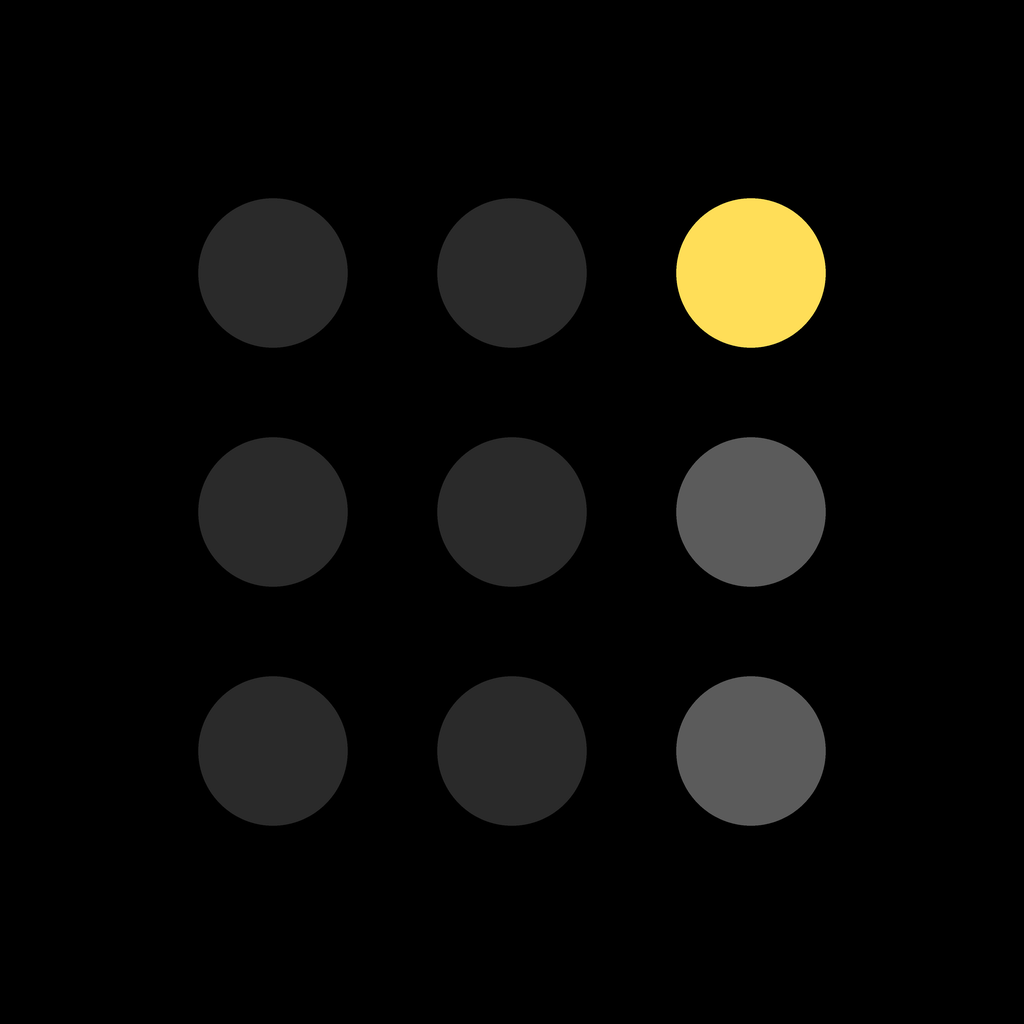
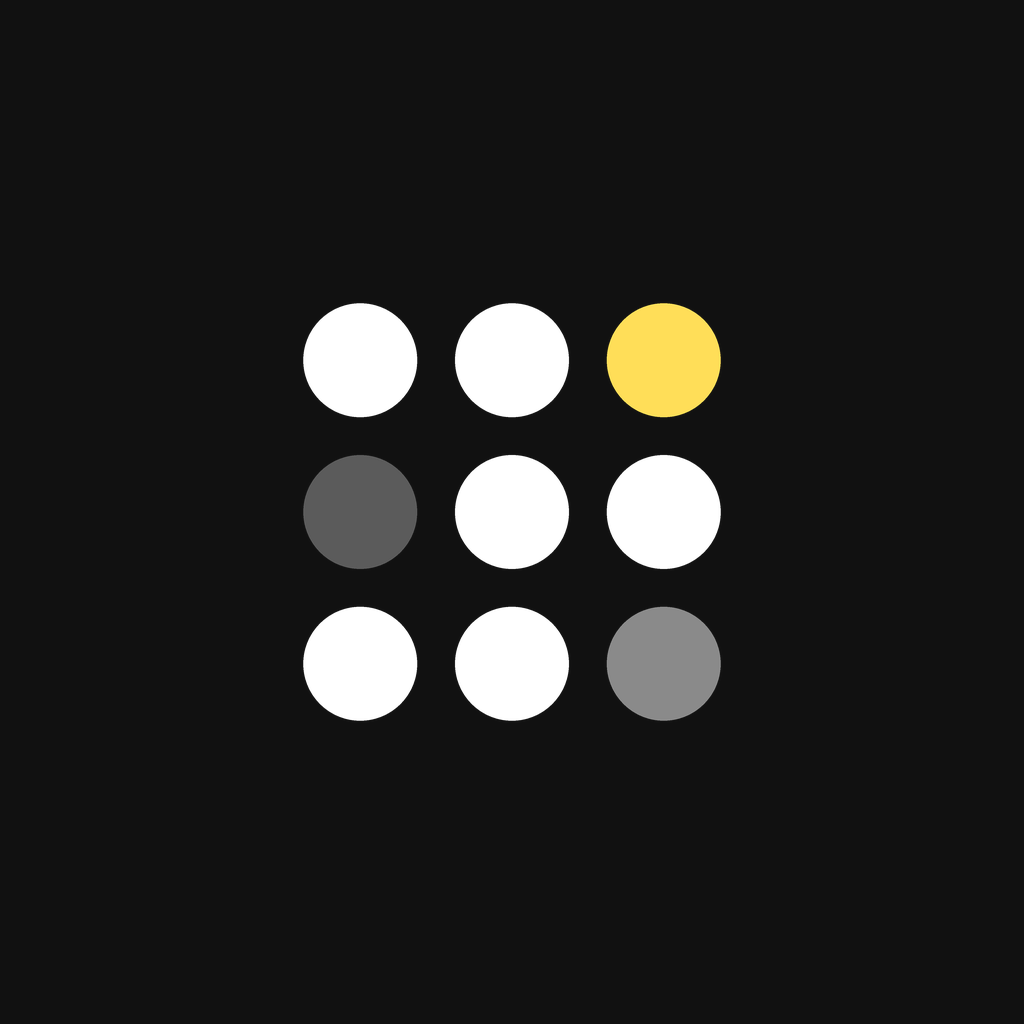
Copy the legacy printing_app adaptive mark
Captain rejected charcoal-on-black. Rasterise the 108dp vector (radius 6,
centres 38/54/70) onto the #111111 cockpit plate. Seven dots stay white;
top-right is #FFDE58, bottom-right #8A8A8A, and middle-left is #5B5B5B
instead of white.

Changed region(s): [[0.1875, 0.1875, 0.8125, 0.8125]]

diff --git a/__tests__/appIcon.test.ts b/__tests__/appIcon.test.ts
@@ -36,7 +36,7 @@ describe("GRIDGO app icon", () => {
   it("points icon, adaptive layers, favicon and splash at the mark files", () => {
     expect(appJson.expo.icon).toBe("./assets/images/icon.png");
     expect(appJson.expo.android?.adaptiveIcon).toEqual({
-      backgroundColor: "#000000",
+      backgroundColor: "#111111",
       foregroundImage: "./assets/images/android-icon-foreground.png",
       backgroundImage: "./assets/images/android-icon-background.png",
       monochromeImage: "./assets/images/android-icon-monochrome.png",
@@ -45,15 +45,15 @@ describe("GRIDGO app icon", () => {
 
     const splash = pluginOptions("expo-splash-screen");
     expect(splash.image).toBe("./assets/images/splash-icon.png");
-    expect(splash.backgroundColor).toBe("#000000");
+    expect(splash.backgroundColor).toBe("#111111");
     expect(splash.dark).toEqual({
       image: "./assets/images/splash-icon-dark.png",
-      backgroundColor: "#000000",
+      backgroundColor: "#111111",
     });
   });
 
-  it("does not keep a light plate (Expo blue or the rejected white)", () => {
-    expect(appJson.expo.android?.adaptiveIcon?.backgroundColor).toBe("#000000");
+  it("uses the legacy cockpit plate, not Expo blue, white, or #000000", () => {
+    expect(appJson.expo.android?.adaptiveIcon?.backgroundColor).toBe("#111111");
     const encoded = JSON.stringify(appJson);
     expect(encoded).not.toContain("#E6F4FE");
     expect(encoded).not.toContain("#e6f4fe");

diff --git a/scripts/generate-app-icon.py b/scripts/generate-app-icon.py
@@ -1,13 +1,17 @@
 #!/usr/bin/env python3
-"""Rasterise the GRIDGO 3×3 mark onto a black launcher plate.
+"""Rasterise the legacy printing_app adaptive mark.
 
-Captain correction 2026-08-19: no white plate. Adaptive background is
-#000000. All nine dots are painted — six charcoal, two grey on the right
-column, one yellow — so nothing punches a hole through to a light plate.
+Source geometry (copy, do not invent):
+  printing_app/.../drawable/ic_launcher_foreground.xml
+  108×108 viewport, radius 6. Each path starts at the left of the circle
+  (M32,38 / M48,38 / M64,38 and y 38/54/70), so centres are 38/54/70.
 
-Source geometry: gridgo-landing/public/favicon.svg (48-unit viewBox,
-centres 8/24/40, r=5). Colours follow the captain photo, not the
-favicon's pure-black structural dots (invisible on this plate).
+Plate: #111111 (ic_launcher_background). Captain change from legacy:
+the middle-left dot (M32,54) is #5B5B5B, not white.
+
+    #FFFFFF  #FFFFFF  #FFDE58
+    #5B5B5B  #FFFFFF  #FFFFFF
+    #FFFFFF  #FFFFFF  #8A8A8A
 
 Run from the repo root:
 
@@ -20,22 +24,18 @@ from pathlib import Path
 
 from PIL import Image, ImageDraw
 
-# Captain photo / black-plate spec.
-DOT_CHARCOAL = (0x2A, 0x2A, 0x2A, 255)
+DOT_WHITE = (0xFF, 0xFF, 0xFF, 255)
 DOT_YELLOW = (0xFF, 0xDE, 0x58, 255)
-DOT_GRAY = (0x5B, 0x5B, 0x5B, 255)
-PLATE = (0x00, 0x00, 0x00, 255)
-MONO = (0xF0, 0xF0, 0xF0, 255)
+DOT_MID_LEFT = (0x5B, 0x5B, 0x5B, 255)
+DOT_BOTTOM_RIGHT = (0x8A, 0x8A, 0x8A, 255)
+PLATE = (0x11, 0x11, 0x11, 255)
+MONO = (0xFF, 0xFF, 0xFF, 255)
 
-# favicon.svg viewBox="0 0 48 48": centres at 8/24/40, r=5.
-CENTRES = (8, 24, 40)
-RADIUS = 5
-VIEW = 48
+# Geometric centres of the legacy vector (path start + radius on x).
+VIEW = 108
+RADIUS = 6
+CENTRES = (38, 54, 70)
 
-# Android adaptive icons are 108dp; the unmasked safe zone is the inner 66dp.
-SAFE_ZONE = 66 / 108
-
-# Super-sample then Lanczos-down so the dots stay round, not stair-stepped.
 SCALE = 4
 
 ROOT = Path(__file__).resolve().parent.parent
@@ -47,37 +47,25 @@ def dot_fill(col: int, row: int, *, mono: bool) -> tuple[int, int, int, int]:
         return MONO
     if col == 2 and row == 0:
         return DOT_YELLOW
-    if col == 2:
-        # Middle-right and bottom-right are both grey. Never skip
-        # middle-right — that hole read as a white dot on the old plate.
-        return DOT_GRAY
-    return DOT_CHARCOAL
+    if col == 0 and row == 1:
+        return DOT_MID_LEFT
+    if col == 2 and row == 2:
+        return DOT_BOTTOM_RIGHT
+    return DOT_WHITE
 
 
-def draw_mark(
-    size: int,
-    *,
-    mono: bool = False,
-    inner_ratio: float = 1.0,
-) -> Image.Image:
-    """Paint all nine dots into a size×size RGBA canvas (transparent plate).
-
-    `inner_ratio` is the fraction of the canvas the 48-unit viewBox occupies
-    (centred). 66/108 puts every dot inside Android's adaptive safe zone.
-    """
+def draw_mark(size: int, *, mono: bool = False) -> Image.Image:
+    """Paint all nine dots into a size×size canvas mapped to the 108 viewport."""
     big = size * SCALE
     canvas = Image.new("RGBA", (big, big), (0, 0, 0, 0))
     draw = ImageDraw.Draw(canvas)
-
-    inner = size * inner_ratio
-    origin = (size - inner) / 2
-    unit = inner / VIEW
+    unit = size / VIEW
 
     for row, cy in enumerate(CENTRES):
         for col, cx in enumerate(CENTRES):
             fill = dot_fill(col, row, mono=mono)
-            px = (origin + cx * unit) * SCALE
-            py = (origin + cy * unit) * SCALE
+            px = cx * unit * SCALE
+            py = cy * unit * SCALE
             r = RADIUS * unit * SCALE
             draw.ellipse((px - r, py - r, px + r, py + r), fill=fill)
 
@@ -99,23 +87,13 @@ def save_png(image: Image.Image, name: str) -> None:
 def main() -> None:
     OUT.mkdir(parents=True, exist_ok=True)
 
-    # Home-screen / iOS icon: opaque black plate, mark inset so the squircle
-    # mask does not clip a corner dot.
-    save_png(composite_plate(draw_mark(1024, inner_ratio=0.70)), "icon.png")
-
-    # Adaptive layers. Foreground paints every dot (no transparent holes);
-    # background is the black plate; monochrome is nine light dots so a
-    # themed icon still shows the full grid on that same plate.
-    save_png(draw_mark(1024, inner_ratio=SAFE_ZONE), "android-icon-foreground.png")
+    save_png(composite_plate(draw_mark(1024)), "icon.png")
+    save_png(draw_mark(1024), "android-icon-foreground.png")
     save_png(Image.new("RGB", (1024, 1024), PLATE[:3]), "android-icon-background.png")
-    save_png(draw_mark(1024, mono=True, inner_ratio=SAFE_ZONE), "android-icon-monochrome.png")
-
-    # Splash: same nine-dot mark, no plate, so it sits on the #000000 splash.
-    save_png(draw_mark(1024, inner_ratio=0.72), "splash-icon.png")
-    save_png(draw_mark(1024, inner_ratio=0.72), "splash-icon-dark.png")
-
-    # Web tab icon matches the launcher tile.
-    save_png(composite_plate(draw_mark(48, inner_ratio=0.84)), "favicon.png")
+    save_png(draw_mark(1024, mono=True), "android-icon-monochrome.png")
+    save_png(draw_mark(1024), "splash-icon.png")
+    save_png(draw_mark(1024), "splash-icon-dark.png")
+    save_png(composite_plate(draw_mark(48)), "favicon.png")
 
 
 if __name__ == "__main__":
